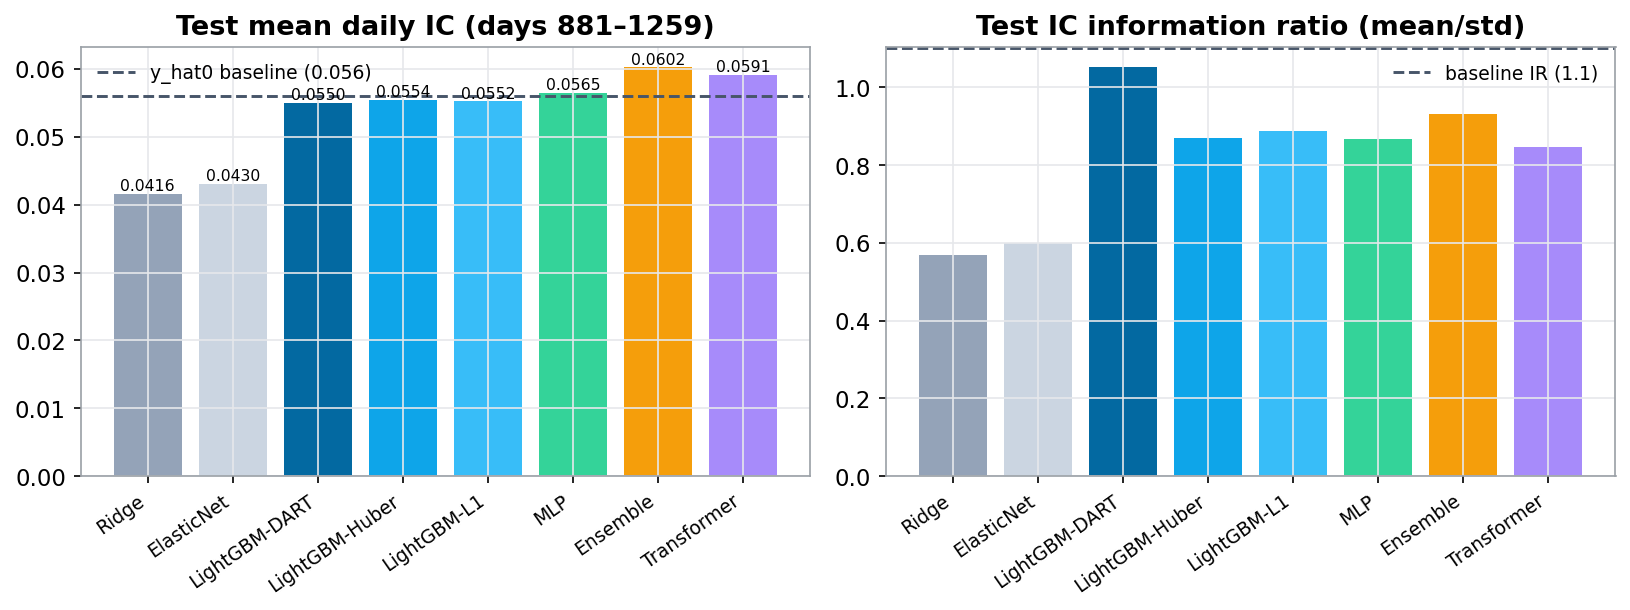
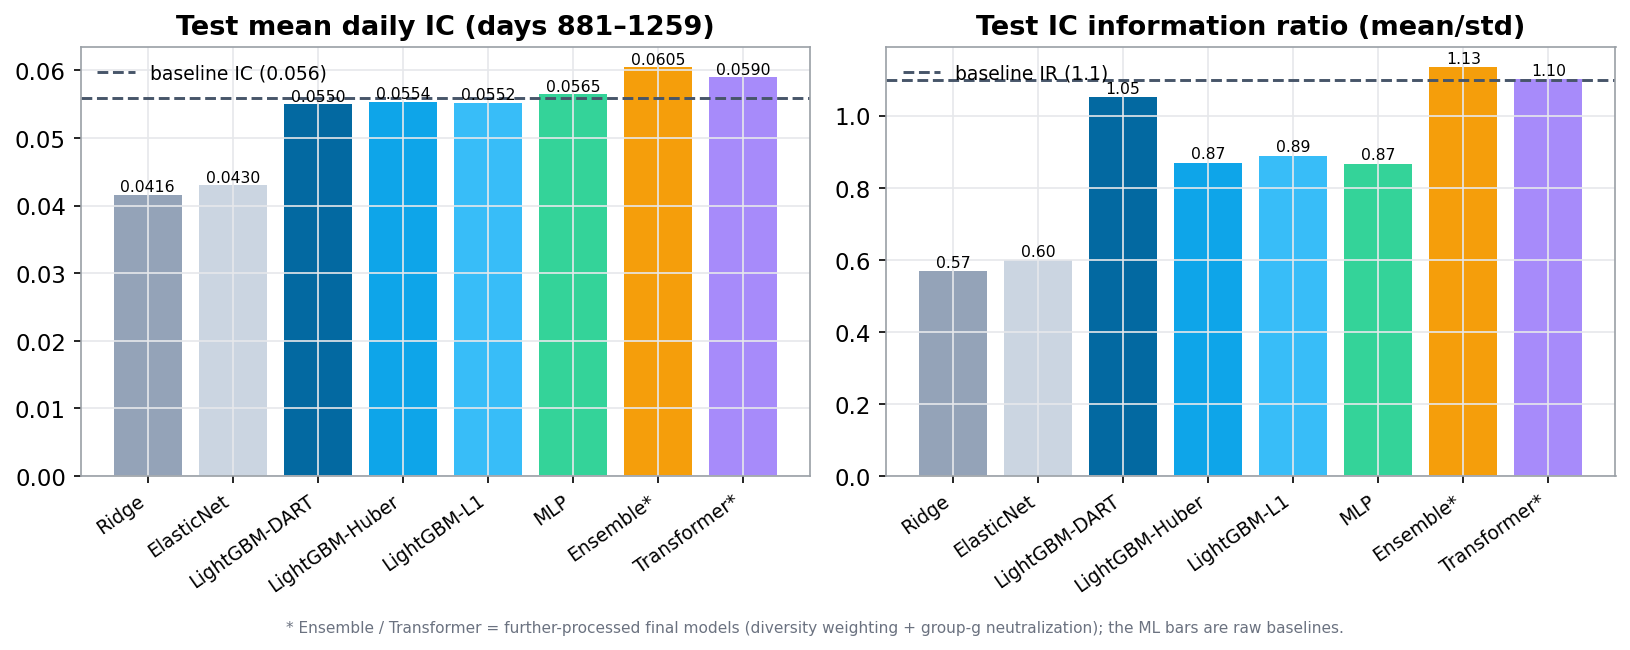
report: show further-processed Ensemble*/Transformer* (processed IR) in abstract Fig 0.1 + cards; add GitHub link in header

diff --git a/summary_src.html b/summary_src.html
@@ -111,7 +111,7 @@
   <div class="wrap">
     <h1><span class="zh">eg-model：从 Ridge / LightGBM / MLP 基线到 Ensemble 与时序 Transformer</span><span class="en">eg-model: From Ridge / LightGBM / MLP Baselines to an Ensemble and a Temporal Transformer</span></h1>
     <div class="sub"><span class="zh">202606 Engineering Gates Take Home Project</span><span class="en">202606 Engineering Gates Take Home Project</span></div>
-    <div class="meta"><b>Shuo Yin（尹硕）</b> &nbsp;·&nbsp; <a href="mailto:[email redacted]">[email redacted]</a> &nbsp;·&nbsp; <a href="https://autoalpha.cn/eg_model/">report online ↗</a></div>
+    <div class="meta"><b>Shuo Yin（尹硕）</b> &nbsp;·&nbsp; <a href="mailto:[email redacted]">[email redacted]</a> &nbsp;·&nbsp; <a href="https://autoalpha.cn/eg_model/">report online ↗</a> &nbsp;·&nbsp; <a href="https://github.com/yinshuo-thu/eg_model" title="code + submit package on GitHub"><svg viewBox="0 0 16 16" width="14" height="14" fill="currentColor" style="vertical-align:-2px" aria-label="GitHub"><path d="M8 0C3.58 0 0 3.58 0 8c0 3.54 2.29 6.53 5.47 7.59.4.07.55-.17.55-.38 0-.19-.01-.82-.01-1.49-2.01.37-2.53-.49-2.69-.94-.09-.23-.48-.94-.82-1.13-.28-.15-.68-.52-.01-.53.63-.01 1.08.58 1.23.82.72 1.21 1.87.87 2.33.66.07-.52.28-.87.51-1.07-1.78-.2-3.64-.89-3.64-3.95 0-.87.31-1.59.82-2.15-.08-.2-.36-1.02.08-2.12 0 0 .67-.21 2.2.82A7.6 7.6 0 018 4.6c.68 0 1.36.09 2 .27 1.53-1.03 2.2-.82 2.2-.82.44 1.1.16 1.92.08 2.12.51.56.82 1.27.82 2.15 0 3.07-1.87 3.75-3.65 3.95.29.25.54.73.54 1.48 0 1.07-.01 1.93-.01 2.2 0 .21.15.46.55.38A8.01 8.01 0 0016 8c0-4.42-3.58-8-8-8z"/></svg> GitHub ↗</a></div>
   </div>
 </header>
 
@@ -170,13 +170,13 @@
 
   <div class="cards">
     <div class="card"><div class="k">0.056</div><div class="l"><span class="zh">基线 y_hat0 · IC</span><span class="en">Baseline y_hat0 · IC</span></div></div>
-    <div class="card accent"><div class="k">0.0602</div><div class="l"><span class="zh"><b>Transformer</b> · 测试 IC · IR 0.907</span><span class="en"><b>Transformer</b> · test IC · IR 0.907</span></div></div>
-    <div class="card gold"><div class="k">0.0605</div><div class="l"><span class="zh"><b>Ensemble</b> · 测试 IC · IR 1.135</span><span class="en"><b>Ensemble</b> · test IC · IR 1.135</span></div></div>
+    <div class="card accent"><div class="k">0.0590</div><div class="l"><span class="zh"><b>Transformer</b>（处理后）· 测试 IC · IR 1.10</span><span class="en"><b>Transformer</b> (processed) · test IC · IR 1.10</span></div></div>
+    <div class="card gold"><div class="k">0.0605</div><div class="l"><span class="zh"><b>Ensemble</b>（处理后）· 测试 IC · IR 1.135</span><span class="en"><b>Ensemble</b> (processed) · test IC · IR 1.135</span></div></div>
   </div>
 
   <figure>
     <img src="summary_assets/fig1_headline.png" alt="cross-model comparison">
-    <figcaption><span class="zh"><b>图 0.1 跨模型对比（测试期 days 881–1259）。</b>左：逐日截面 Pearson IC（虚线为基线 0.056）；右：IC 信息比 IR（虚线为基线 1.1）。Transformer 是最强单模型，Ensemble 进一步抬升 IC。</span><span class="en"><b>Fig 0.1 — Cross-model comparison (test, days 881–1259).</b> Left: mean daily cross-sectional Pearson IC (dashed = baseline 0.056); right: IC information ratio (dashed = baseline 1.1). The Transformer is the strongest single model; the Ensemble lifts IC further.</span></figcaption>
+    <figcaption><span class="zh"><b>图 0.1 跨模型对比（测试期 days 881–1259）。</b>左：逐日截面 Pearson IC（虚线为基线 0.056）；右：IC 信息比 IR（虚线为基线 1.1）。最后两支 <b>Ensemble* / Transformer*</b> 为经<b>进一步处理</b>（多样性加权 + group 中性化）的最终模型——IR 分别抬到 <b>1.13 / 1.10</b>、双双跨过基线 1.1，同时 IC 维持（Ensemble 更升到 0.0605）；其余为原始基线（ML 单模型 IR 均低于 1.1）。</span><span class="en"><b>Fig 0.1 — Cross-model comparison (test, days 881–1259).</b> Left: mean daily cross-sectional Pearson IC (dashed = baseline 0.056); right: IC information ratio (dashed = baseline 1.1). The last two bars — <b>Ensemble* / Transformer*</b> — are the <b>further-processed</b> final models (diversity weighting + group-neutralization): their IRs rise to <b>1.13 / 1.10</b>, both crossing the 1.1 baseline while IC holds (the Ensemble even lifts to 0.0605); the rest are raw baselines (all ML singles sit below IR 1.1).</span></figcaption>
   </figure>
 </section>
 

diff --git a/tools/gen_figs.py b/tools/gen_figs.py
@@ -64,18 +64,32 @@ def main():
     # also equal blend if present in metrics
     best_single = max([m for m in models if not m.startswith("ensemble")], key=lambda m: stats[m][0])
 
-    # ---- fig1: headline IC + IR bars vs baseline ----
+    # ---- fig1: headline IC + IR bars. The Ensemble and Transformer bars show the
+    #      FURTHER-PROCESSED (v2) models (diversity weighting + group-g neutralization),
+    #      so the IR panel reflects the post-processing; the ML bars stay raw baselines. ----
+    F1 = ["ridge", "elasticnet", "lightgbm_dart", "lightgbm_huber", "lightgbm_l1",
+          "mlp", "ensemble_v2", "transformer_v2"]
+    F1 = [m for m in F1 if m in M]
+    f1nm = {**NAMES, "ensemble_v2": "Ensemble*", "transformer_v2": "Transformer*"}
+    f1col = {**C, "ensemble_v2": C["ensemble_opt"], "transformer_v2": C["transformer"]}
+    f1st = {}
+    for m in F1:
+        ic = daily_ic_series(M[m], "test")
+        f1st[m] = (ic.mean(), ic.mean() / ic.std() if ic.std() > 0 else 0)
     fig, ax = plt.subplots(1, 2, figsize=(11, 4.2))
-    xs = range(len(models)); cols = [C.get(m, "#888") for m in models]
-    ax[0].bar(xs, [stats[m][0] for m in models], color=cols)
-    ax[0].axhline(BASE_IC, ls="--", color=C["thresh"], lw=1.4, label=f"y_hat0 baseline ({BASE_IC})")
-    ax[0].set_xticks(list(xs)); ax[0].set_xticklabels([NAMES[m] for m in models], rotation=35, ha="right", fontsize=9)
+    xs = range(len(F1)); cols = [f1col.get(m, "#888") for m in F1]
+    ax[0].bar(xs, [f1st[m][0] for m in F1], color=cols)
+    ax[0].axhline(BASE_IC, ls="--", color=C["thresh"], lw=1.4, label=f"baseline IC ({BASE_IC})")
+    ax[0].set_xticks(list(xs)); ax[0].set_xticklabels([f1nm[m] for m in F1], rotation=35, ha="right", fontsize=9)
     ax[0].set_title("Test mean daily IC (days 881–1259)"); ax[0].legend(fontsize=9)
-    for i, m in enumerate(models): ax[0].text(i, stats[m][0] + 0.0005, f"{stats[m][0]:.4f}", ha="center", fontsize=7.5)
-    ax[1].bar(xs, [stats[m][1] for m in models], color=cols)
+    for i, m in enumerate(F1): ax[0].text(i, f1st[m][0] + 0.0005, f"{f1st[m][0]:.4f}", ha="center", fontsize=7.5)
+    ax[1].bar(xs, [f1st[m][1] for m in F1], color=cols)
     ax[1].axhline(BASE_IR, ls="--", color=C["thresh"], lw=1.4, label=f"baseline IR ({BASE_IR})")
-    ax[1].set_xticks(list(xs)); ax[1].set_xticklabels([NAMES[m] for m in models], rotation=35, ha="right", fontsize=9)
+    ax[1].set_xticks(list(xs)); ax[1].set_xticklabels([f1nm[m] for m in F1], rotation=35, ha="right", fontsize=9)
     ax[1].set_title("Test IC information ratio (mean/std)"); ax[1].legend(fontsize=9)
+    for i, m in enumerate(F1): ax[1].text(i, f1st[m][1] + 0.012, f"{f1st[m][1]:.2f}", ha="center", fontsize=7.5)
+    fig.text(0.5, -0.02, "* Ensemble / Transformer = further-processed final models (diversity weighting + group-g neutralization); the ML bars are raw baselines.",
+             ha="center", fontsize=7.4, color="#6b7280")
     save(fig, "fig1_headline.png")
 
     # ---- fig2: daily IC time series for ensemble ----